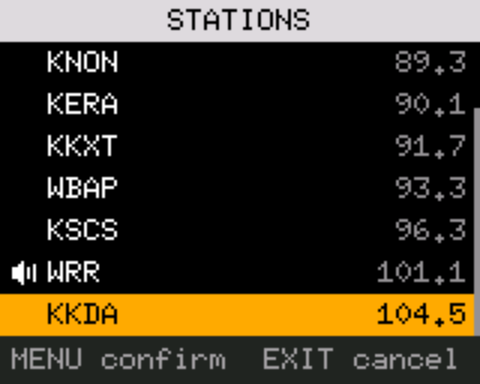
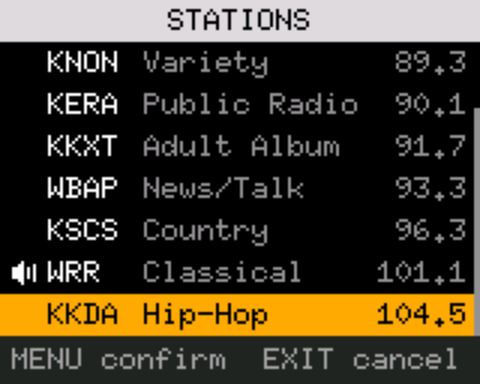
FM station list shows the genre
The genre (the record's detail) sits in a column of its own between the name and the frequency, grey like the frequency.
Row layout is a pure function (fmt_row) with unit tests: 25 cells between label and value; genre column from cell 7, or one
space after a longer name; cut at a word, or inside a long word with a dot; left out when under 5 cells remain or the
station has no detail. Scenario fm_list_long covers 3 to 12 character names and long genres.

diff --git a/firmware/firmware-source/apps/fm/src/logic.rs b/firmware/firmware-source/apps/fm/src/logic.rs
@@ -872,6 +872,66 @@ fn draw_marker(api: &Api, deci: u16) {
     }
 }
 
+/// Characters of the list widget's row that label and value may share: the label starts 4 px in, the value ends 4 px
+/// from the right edge, so 25 six-pixel cells fit between them (a 26th would touch).
+pub const ROW_CHARS: usize = 25;
+const FREQ_W: usize = 5;
+/// The genre column starts here at the earliest (2 for the speaker, a 4-character name, one space).
+const GENRE_COL: usize = 7;
+
+/// One station row for the list: the label is two blanks for the speaker, then the name (`(unnamed)` when it has none);
+/// the value is the genre, left-aligned in a column of its own, then the frequency right-aligned in five cells.
+/// The genre column starts at column 7 (names up to 4 characters, as call letters are) or one space after a longer
+/// name; a genre wider than the column is cut at a word boundary, or, inside a long word, one cell early with a `.`;
+/// where fewer than 5 cells are left for it (names of 12) it is left out. A station without a detail shows only its
+/// frequency. Label length plus value length never exceeds `ROW_CHARS`. Returns (label length, value length).
+pub fn fmt_row(name: &[u8], detail: &[u8], deci: u16, label: &mut [u8; 16], value: &mut [u8; 18]) -> (usize, usize) {
+    label.fill(0);
+    value.fill(0);
+    label[..2].copy_from_slice(b"  ");
+    let mut n = copy_text(&mut label[2..14], name);
+    if n == 0 {
+        label[2..11].copy_from_slice(b"(unnamed)");
+        n = 9;
+    }
+    let ln = 2 + n;
+    let mut f = [0u8; 6];
+    let fl = fmt_deci(deci, &mut f);
+    let mut g = [0u8; 16];
+    let mut gl = copy_text(&mut g, detail);
+    while gl > 0 && g[gl - 1] == b' ' {
+        gl -= 1;
+    }
+    let start = GENRE_COL.max(ln + 1);
+    let vn = ROW_CHARS - start;
+    let gw = vn.saturating_sub(FREQ_W + 1);
+    if gl == 0 || gw < 5 {
+        value[..fl].copy_from_slice(&f[..fl]);
+        return (ln, fl);
+    }
+    if gl > gw {
+        // cut at the last blank that leaves at least 4 characters, else inside the word with a marker
+        let mut cut = 0;
+        for i in 4..=gw {
+            if g[i] == b' ' {
+                cut = i;
+            }
+        }
+        if cut == 0 {
+            cut = gw;
+            g[gw - 1] = b'.';
+        }
+        gl = cut;
+        while gl > 0 && g[gl - 1] == b' ' {
+            gl -= 1;
+        }
+    }
+    value[..gl].copy_from_slice(&g[..gl]);
+    value[gl..vn].fill(b' ');
+    value[vn - fl..vn].copy_from_slice(&f[..fl]);
+    (ln, vn)
+}
+
 fn draw_list(api: &Api, a: &mut App) {
     static mut ROWS: [ListRow; VIS] = [ListRow { label: [0; 16], value: [0; 18], has_value: false, cursor: 0 }; VIS];
     let lead = lead(a);
@@ -894,19 +954,18 @@ fn draw_list(api: &Api, a: &mut App) {
         } else {
             let i = g - lead;
             let r = read_rec(&mut nor, &a.st, i);
-            row.label[..2].copy_from_slice(b"  ");
-            let n = copy_text(&mut row.label[2..14], &r[2..14]);
-            if n == 0 {
-                row.label[2..11].copy_from_slice(b"(unnamed)");
-            }
+            let (_, vn) = fmt_row(&r[2..14], &r[14..30], a.st.fq[i], &mut row.label, &mut row.value);
+            row.has_value = vn > 0;
             if a.st.fq[i] == a.deci {
                 playing = Some(slot as i16);
             }
             a.st.fq[i]
         };
-        let n = fmt_deci(f, &mut t);
-        row.value[..n].copy_from_slice(&t[..n]);
-        row.has_value = true;
+        if g < lead {
+            let n = fmt_deci(f, &mut t);
+            row.value[..n].copy_from_slice(&t[..n]);
+            row.has_value = true;
+        }
         if g == sel && a.armed {
             row.cursor = bf5rh_abi::ROW_ARMED;
         }
@@ -1251,5 +1310,68 @@ mod tests {
         let mut d = [0u8; 6];
         assert_eq!(copy_text(&mut d, b"A\x01B\xff"), 3);
         assert_eq!(&d[..3], b"A?B");
+    }
+
+    /// The row as the widget draws it: label from the left, value right-aligned, in `ROW_CHARS` cells.
+    fn row(name: &[u8], detail: &[u8], deci: u16) -> String {
+        let (mut l, mut v) = ([0u8; 16], [0u8; 18]);
+        let (ln, vn) = fmt_row(name, detail, deci, &mut l, &mut v);
+        assert!(ln + vn <= ROW_CHARS, "{} + {}", ln, vn);
+        assert!(l[ln..].iter().all(|&b| b == 0) && v[vn..].iter().all(|&b| b == 0));
+        let mut s = String::from_utf8(l[..ln].to_vec()).unwrap();
+        while s.len() + vn < ROW_CHARS {
+            s.push(' ');
+        }
+        s.push_str(std::str::from_utf8(&v[..vn]).unwrap());
+        assert_eq!(s.len(), ROW_CHARS);
+        s
+    }
+
+    #[test]
+    fn row_short_names() {
+        assert_eq!(row(b"KERA", b"Public Radio", 901), "  KERA Public Radio  90.1");
+        assert_eq!(row(b"WRR", b"Classical", 1011), "  WRR  Classical    101.1");
+        assert_eq!(row(b"KERA", b"Adult Album Alt", 917), "  KERA Adult Album   91.7");
+        assert_eq!(row(b"KERA", b"Classic Hits", 881), "  KERA Classic Hits  88.1");
+        assert_eq!(row(b"KKDA", b"Hip-Hop", 1045), "  KKDA Hip-Hop      104.5");
+        assert_eq!(row(b"KERA", b"Rock", 881), "  KERA Rock          88.1");
+    }
+
+    #[test]
+    fn row_no_detail_shows_only_the_frequency() {
+        assert_eq!(row(b"KERA", b"", 881), "  KERA               88.1");
+        assert_eq!(row(b"KERA", &[0xFF; 16], 1045), "  KERA              104.5");
+        assert_eq!(row(b"KERA", b"        ", 881), "  KERA               88.1");
+        assert_eq!(row(b"", b"", 1045), "  (unnamed)         104.5");
+        assert_eq!(row(b"", b"News", 1045), "  (unnamed) News    104.5");
+    }
+
+    #[test]
+    fn row_long_names_push_the_genre_right_and_then_drop_it() {
+        assert_eq!(row(b"WFAA-HD2", b"Public Radio", 901), "  WFAA-HD2 Public    90.1");
+        assert_eq!(row(b"WFAA-HD2", b"Talk", 901), "  WFAA-HD2 Talk      90.1");
+        assert_eq!(row(b"TWELVECHARS1", b"Public Radio", 1045), "  TWELVECHARS1      104.5");
+        assert_eq!(row(b"ELEVENCHARS", b"Rock", 881), "  ELEVENCHARS Rock   88.1");
+        assert_eq!(row(b"TWELVECHARS1", b"", 881), "  TWELVECHARS1       88.1");
+    }
+
+    #[test]
+    fn row_never_exceeds_its_fields() {
+        let names: [&[u8]; 6] = [b"", b"ABC", b"ABCD", b"ABCDEFGH", b"ABCDEFGHIJKL", b"A\x01B"];
+        let details: [&[u8]; 8] = [b"", b"Rock", b"Alt Rock", b"Classic Hits", b"Public Radio", b"Adult Album Alt",
+            b"Adult Alternative", b"Superlongwordgenre"];
+        for n in names {
+            for d in details {
+                for f in [LO, 881, 1000, 1045, HI] {
+                    let r = row(n, d, f);
+                    assert!(r.is_ascii());
+                    assert!(r.ends_with(&format!("{}.{}", f / 10, f % 10)));
+                    // the frequency is the last five cells, flush right
+                    assert_eq!(r.as_bytes()[ROW_CHARS - 1], b'0' + (f % 10) as u8);
+                }
+            }
+        }
+        // a genre with no word break is cut one cell early and marked
+        assert_eq!(row(b"KERA", b"Superlongwordgenre", 881), "  KERA Superlongwo.  88.1");
     }
 }

diff --git a/docs/USER-GUIDE.md b/docs/USER-GUIDE.md
@@ -723,7 +723,13 @@ four bars at the right of the title bar are the signal strength (their threshold
 ![Typing a frequency: 98 so far in amber, the strip 0-9 type, EXIT clear.](img/fm-typing.png)
 
 **The station list** (title `STATIONS`, `MENU`) is a list like the others: blue is your row, a speaker marks the station that is
-playing, the frequency is on the right, and it opens on the station that is playing.
+playing, the station's genre (its detail text) is in grey between the name and the frequency, the frequency is on the right, and it opens
+on the station that is playing. The genre has 12 characters of room when the name is 4 or fewer (call letters), and less after a longer
+name: a genre that does not fit is cut at a word (`Adult Album Alt` shows as `Adult Album`), or cut inside a long word with a `.` at the
+end; after a name of 12 characters there is no room and it is left out, as it is for a station with no detail. The tuner screen always
+shows the whole detail.
+
+![A list with long names and genres: the genre moves right after a longer name, a long word is cut with a dot, and a name of 12 characters has no genre.](img/fm-list-long.png)
 
 ![The station list: the playing station has a speaker mark and is selected; strip MENU play, * delete.](img/fm-list.png)
 
